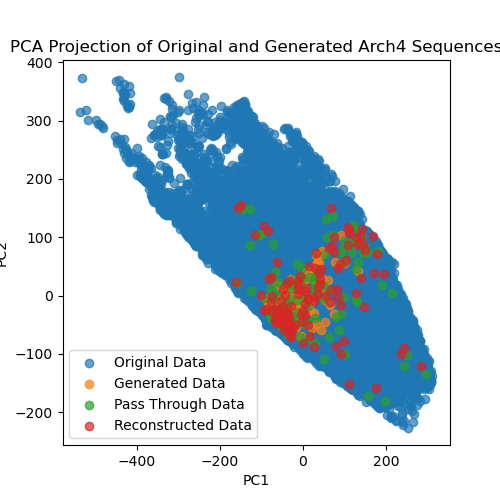
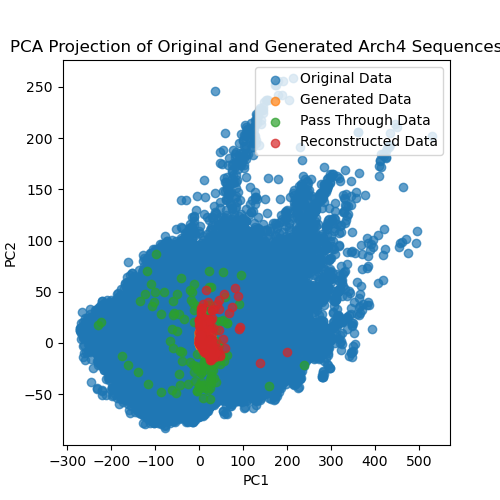
normalized vae results

diff --git a/code/m1_trainer.py b/code/m1_trainer.py
@@ -19,11 +19,11 @@ reg_hidden_layers = [2048, 2048]
 out_features = 156958
 
 dat_dir = "data/hdf5"
-gtexDset_train = GtexDataset(data_dir=dat_dir, split="train", load_in_mem=False)
+gtexDset_train = GtexDataset(data_dir=dat_dir, split="train", normalize=True, load_in_mem=False)
 sampler_train = WeightedRandomSampler(weights=gtexDset_train.sample_weights, num_samples=2*len(gtexDset_train), replacement=True)
 training_dataloader = DataLoader(gtexDset_train, sampler=sampler_train, batch_size=128, num_workers=2, prefetch_factor=1)
 
-gtexDset_val = GtexDataset(data_dir=dat_dir, split="val", load_in_mem=False)
+gtexDset_val = GtexDataset(data_dir=dat_dir, split="val", normalize=True, load_in_mem=False)
 sampler_val = WeightedRandomSampler(weights=gtexDset_val.sample_weights, num_samples=2*len(gtexDset_val), replacement=True)
 validation_dataloader = DataLoader(gtexDset_val, batch_size=128, num_workers=2, prefetch_factor=1)
 

diff --git a/code/vae_trainer.py b/code/vae_trainer.py
@@ -187,10 +187,10 @@ if __name__ == '__main__':
     
     #### Data loader setup ####
     dat_dir = "data/hdf5"
-    archsDset_train = Archs4GeneExpressionDataset(data_dir = dat_dir, split="train", load_in_mem=False)
+    archsDset_train = Archs4GeneExpressionDataset(data_dir = dat_dir, split="train", normalize=True, load_in_mem=False)
     train_dataloader = DataLoader(archsDset_train, batch_size=80, num_workers=2, prefetch_factor=1)
 
-    archsDset_val = Archs4GeneExpressionDataset(data_dir = dat_dir, split="val", load_in_mem=False)
+    archsDset_val = Archs4GeneExpressionDataset(data_dir = dat_dir, split="val", normalize=True, load_in_mem=False)
     val_dataloader = DataLoader(archsDset_val, batch_size=80, num_workers=2, prefetch_factor=1)
     
     # Incremental PCA
